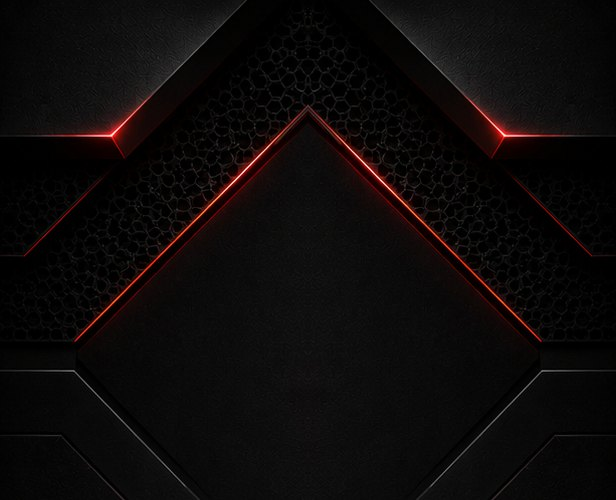
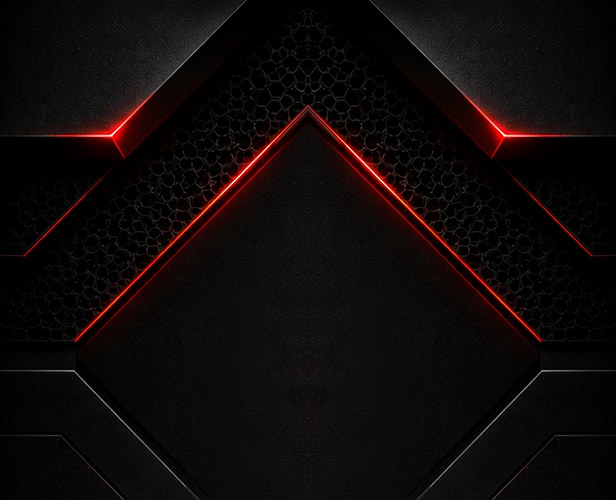
Fundo: neon tecnologico mais forte (#44)
- Realca o neon vermelho e a textura no proprio arquivo (saturacao 1.55,
  contraste 1.15, brilho 1.12).
- Reduz o overlay escuro de .42/.66 para .30/.55, deixando os tracos
  tecnologicos mais presentes, sem perder a legibilidade dos cards.

Claude-Session: https://claude.ai/code/session_013Wx4tmFkX2GDCdyYkz4ydb

diff --git a/painel-vercel/m/index.html b/painel-vercel/m/index.html
@@ -20,7 +20,7 @@
   #particles{position:fixed;inset:0;z-index:0;pointer-events:none;opacity:.14}
   .app{position:relative;z-index:1;min-height:100vh;padding:10px 14px 96px;max-width:920px;margin:0 auto}
   .app::before{content:"";position:fixed;inset:0;z-index:-1;pointer-events:none;
-    background:linear-gradient(180deg,rgba(7,3,4,.42),rgba(7,3,4,.66)),url('/img/kalfix-tech.jpg') center center / cover no-repeat;
+    background:linear-gradient(180deg,rgba(7,3,4,.30),rgba(7,3,4,.55)),url('/img/kalfix-tech.jpg') center center / cover no-repeat;
     background-color:#070304}
   /* Imagem principal (logotipo do Grupo Kalfix em fundo preto — mescla com o app) */
   .heroimg{display:block;width:100%;margin:0 0 4px;cursor:pointer}
